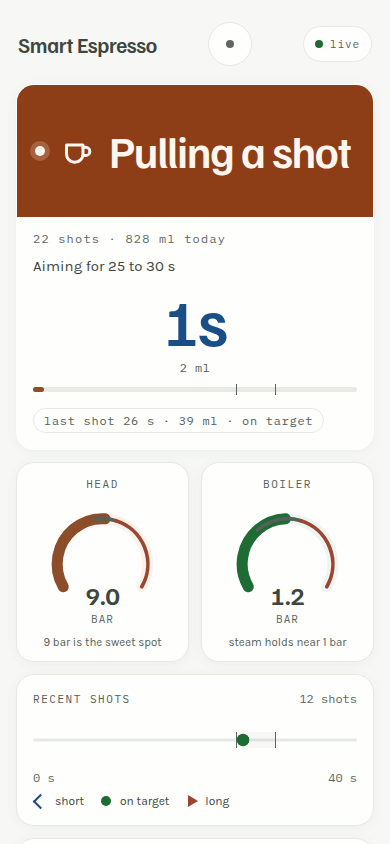
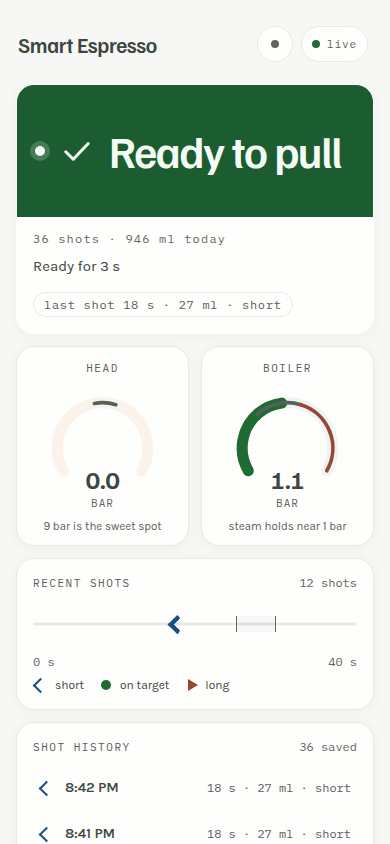
fix: keep the header inside a 320 px screen
The title ellipsizes instead of pushing the connection pill off the
edge. The wake control and the connection pill share a 36 px face
inside a 44 px tap target.

diff --git a/smart_espresso/web/static/index.html b/smart_espresso/web/static/index.html
@@ -213,6 +213,62 @@
     margin: 0;
   }
 
+  /* The title yields before the status pills do. At 320 px a nowrap title
+     otherwise forces the page to scroll sideways. */
+  header h1 {
+    flex: 1 1 auto;
+    min-width: 0;
+    overflow: hidden;
+    text-overflow: ellipsis;
+    white-space: nowrap;
+  }
+
+  .header-tools {
+    display: flex;
+    align-items: center;
+    flex: none;
+    margin-left: auto;
+    gap: 0;
+  }
+
+  /* 44 px tap area. The visible circle or pill inside is 36 px tall,
+     so the wake control and the connection pill match. */
+  .header-tools > .live {
+    display: inline-flex;
+    align-items: center;
+    justify-content: center;
+    box-sizing: border-box;
+    width: auto;
+    min-width: 44px;
+    height: 44px;
+    min-height: 44px;
+    margin: 0;
+    padding: 4px;
+    background: transparent;
+    border: none;
+    border-radius: 0;
+    box-shadow: none;
+  }
+
+  .header-tools .pill-face {
+    display: inline-flex;
+    align-items: center;
+    justify-content: center;
+    gap: 7px;
+    box-sizing: border-box;
+    height: 36px;
+    min-width: 36px;
+    padding: 0 10px;
+    background: var(--card);
+    border: 1px solid var(--edge);
+    border-radius: 999px;
+    font-family: var(--mono);
+    font-size: 11px;
+    letter-spacing: .08em;
+    color: var(--ink-soft);
+    white-space: nowrap;
+  }
+
   .tagline {
     font-family: var(--mono);
     font-size: 12px;
@@ -226,7 +282,6 @@
      On a phone the same words move into the state card. */
   @media (max-width: 999px) {
     header .tagline { display: none !important; }
-    header h1 { white-space: nowrap; }
   }
 
   /* Below about 480 px the words "Keep screen on" plus the connection
@@ -245,10 +300,16 @@
       flex: none;
       width: 44px;
       justify-content: center;
-      padding-left: 0;
-      padding-right: 0;
+      padding: 4px;
     }
-    header > .live { flex: none; }
+    #wake .pill-face {
+      width: 36px;
+      min-width: 36px;
+      padding: 0;
+      border-radius: 50%;
+    }
+    header > .live,
+    .header-tools { flex: none; }
   }
 
   @media (min-width: 1000px) {
@@ -1161,12 +1222,16 @@
 
 <header>
   <h1>Smart Espresso</h1>
-  <button class="live" id="wake" type="button" title="Keep screen on"
-          aria-label="Keep screen on" aria-pressed="false" hidden><span
-      class="dot"></span><span id="wake-text">Keep screen on</span></button>
-  <!-- Connecting, not live: the shell is often cached and painted before
-       /api/status has ever answered. A green "live" here is a lie. -->
-  <div class="live" role="status"><span class="dot off" id="dot"></span><span id="conn">connecting…</span></div>
+  <div class="header-tools">
+    <button class="live" id="wake" type="button" title="Keep screen on"
+            aria-label="Keep screen on" aria-pressed="false" hidden><span
+        class="pill-face"><span class="dot"></span><span
+        id="wake-text">Keep screen on</span></span></button>
+    <!-- Connecting, not live: the shell is often cached and painted before
+         /api/status has ever answered. A green "live" here is a lie. -->
+    <div class="live" role="status"><span class="pill-face"><span class="dot off"
+        id="dot"></span><span id="conn">connecting…</span></span></div>
+  </div>
   <div class="tagline" id="tagline"></div>
 </header>
 

diff --git a/smart_espresso/web/static/sw.js b/smart_espresso/web/static/sw.js
@@ -2,7 +2,7 @@
 // still opens (slightly stale, clearly marked so by the page itself) when
 // the machine's server hiccups. Sensor data is never cached: /api/* always
 // goes to the network.
-const CACHE = 'espresso-shell-v13';
+const CACHE = 'espresso-shell-v14';
 const SHELL = [
   '/',
   '/dashboard_logic.js',

diff --git a/smart_espresso/test/test_dashboard_logic.py b/smart_espresso/test/test_dashboard_logic.py
@@ -385,3 +385,18 @@ class TestPhoneHeader:
         assert "#wake-text" in narrow
         assert "position: absolute" in narrow
         assert "width: 44px" in narrow
+
+    def test_narrow_phones_do_not_scroll_sideways(self):
+        # 320 and 360 used to overflow: the title could not shrink, so the
+        # connecting pill stuck out. The title ellipsizes instead.
+        title = _css_rule(self.page, "header h1")
+        assert "min-width: 0" in title
+        assert "overflow: hidden" in title
+        assert "text-overflow: ellipsis" in title
+        assert "white-space: nowrap" in title
+        assert 'class="header-tools"' in self.page
+        face = _css_rule(self.page, ".header-tools .pill-face")
+        assert "height: 36px" in face
+        tools = _css_rule(self.page, ".header-tools > .live")
+        assert "min-height: 44px" in tools
+        assert "height: 44px" in tools
